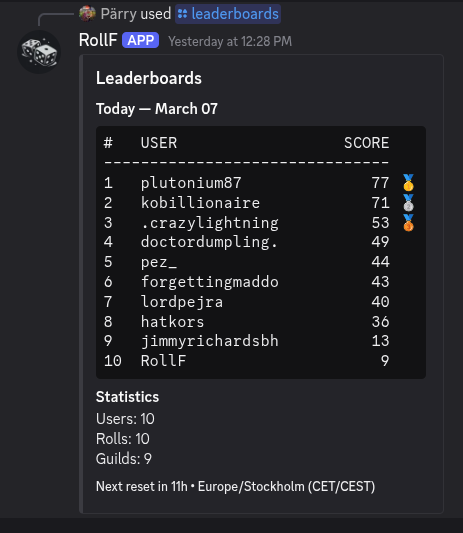
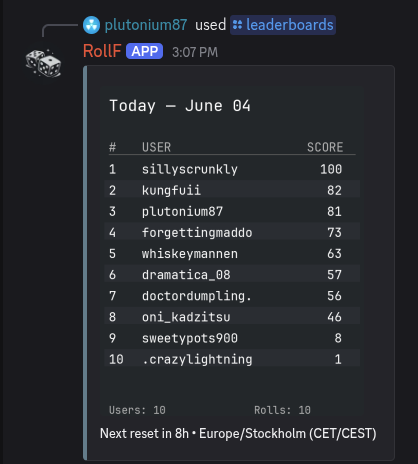
v1.7.0 leaderboard overhaul

Changed region(s): [[0.0311, 0.0, 0.9019, 0.9957], [0.5598, 0.2112, 0.622, 0.2414], [0.8086, 0.7543, 0.8397, 0.7845]]

diff --git a/README.md b/README.md
@@ -26,6 +26,7 @@ The source code for the bot is available here on GitHub.
 - One roll per user per calendar day (Europe/Stockholm)
 - Roll range: 1–100
 - Automatic daily bot roll
+- PNG-rendered leaderboards for consistent formatting across all Discord clients
 - Global cross-server leaderboards
 - Period-based leaderboards:
   - Today
@@ -58,15 +59,13 @@ Public:
 - `/leaderboards` – View period-based rankings
 - `/stats` – View detailed statistics
 - `/setchannel` – Configure daily bot roll channel (admin)
-- `/help` – Show setup information (admin)
+- `/help` – Show setup information and support links
 
 Owner-only (optional, requires ADMIN_MODE=true):
 
-- `/undo` – Delete latest roll for a user
 - `/export` – Export guild & global bot statistics
 - `/user` – View full roll history summary for a user
-- `/forceroll` – Insert a manual roll
-- `/purgeuser` – Delete all rolls for a user
+
 
 ---
 